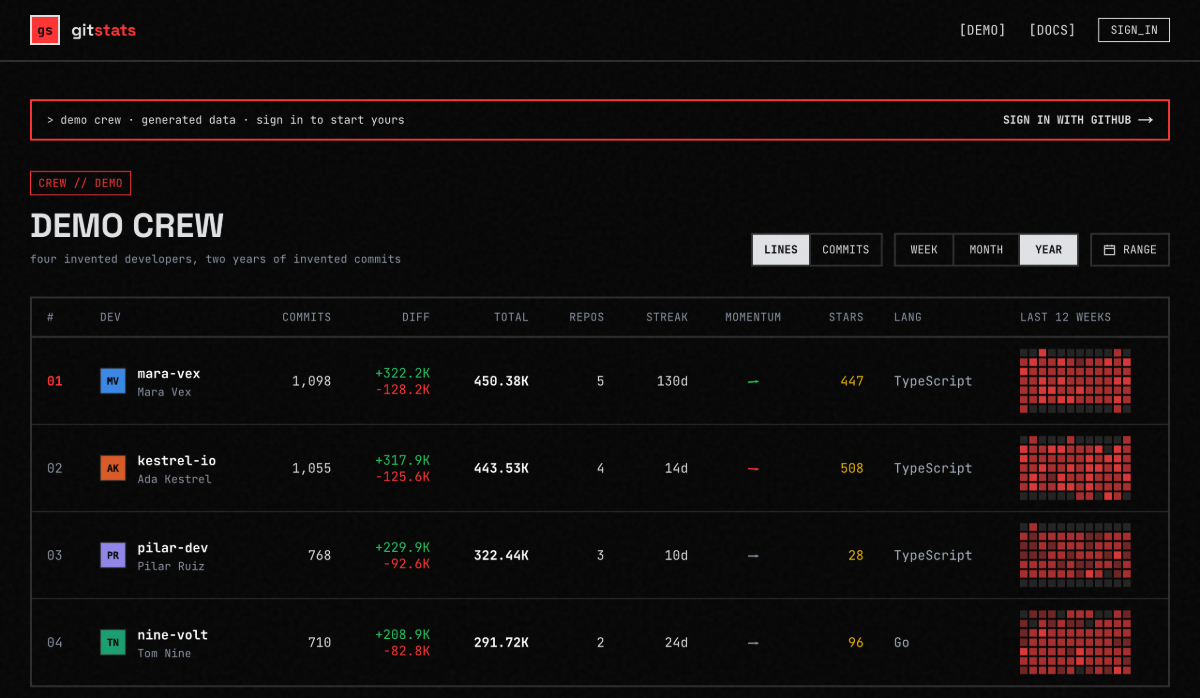
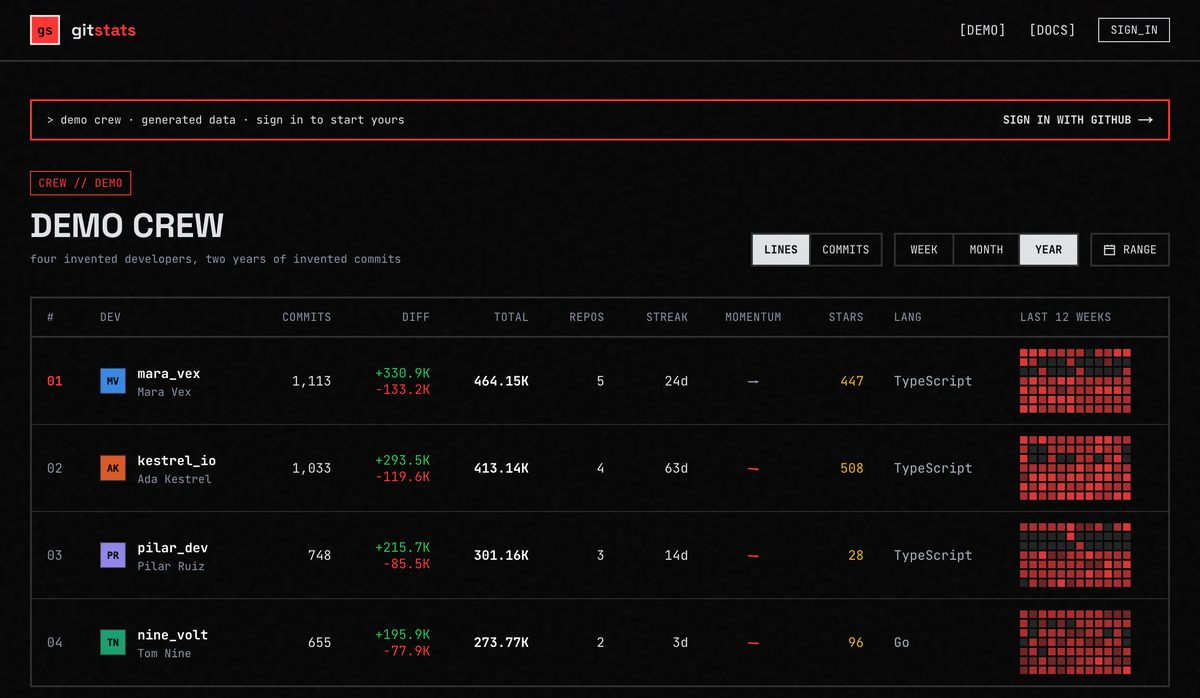
Copy: no em dashes in UI text; landing hero and share card show the current demo logins

diff --git a/app/docs/page.tsx b/app/docs/page.tsx
@@ -36,7 +36,7 @@ const SENT = [
   ["a language guess", "From the extensions of files you changed, lockfiles ignored."],
   ["weekly numbers", "For each Sunday-to-Saturday week: commits, lines added, lines deleted. Your commits only, on the default branch, merge commits excluded."],
   ["commits and lines per day", "For each date: how many commits you made and how many lines you added and deleted, so private repos show on your calendar and in the daily charts."],
-  ["pending work", "The same numbers again for commits that only exist on a branch the default branch has not taken in yet. Counted from your pushed branches only — a remote branch whose last commit is under 30 days old — so stale local branches and squash-merged worktrees do not pile up. Shown separately under the numbers on your page — to you and to anyone allowed to see that repo's numbers — and never counted on any board."],
+  ["pending work", "The same numbers again for commits that only exist on a branch the default branch has not taken in yet. Counted from your pushed branches only (a remote branch whose last commit is under 30 days old), so stale local branches and squash-merged worktrees do not pile up. Shown separately under the numbers on your page, to you and to anyone allowed to see that repo's numbers, and never counted on any board."],
   ["repo name", "Only if you ran `names on`. Off by default."],
 ];
 
@@ -152,15 +152,15 @@ export default async function Docs() {
           <dl className="space-y-6 font-mono text-xs leading-relaxed">
             <div><dt className="text-silver mb-1">Can I see the numbers without signing up?</dt><dd className="text-dim">Yes. `npx @yaroslavhaidash/gitstats-cli@latest stats` scans this computer, prints the per-repo table and the year&apos;s totals, and exits. It pairs with nothing, uploads nothing, writes no config and makes no network call \u2014 it only reads your git history. If you like what you see, run `link`.</dd></div>
             <div><dt className="text-silver mb-1">Is my work repo safe?</dt><dd className="text-dim">Yes. Only weekly counts of your own commits leave the machine, under a keyed hash instead of the repo name. No content, names, paths, or branch names. Nothing touches your employer&apos;s GitHub org.</dd></div>
-            <div><dt className="text-silver mb-1">Which commits count?</dt><dd className="text-dim">Commits on the default branch (origin/main or whatever origin/HEAD points to) authored by one of your emails, last 365 days, merge commits excluded. Squash-merged PRs count once. Work sitting on an unmerged branch is counted separately as &ldquo;pending&rdquo; by a linked computer: it shows as a faint line under the numbers on your page and as hatched caps on your lines-per-week chart — visible to whoever may see those repos&rsquo; numbers, which is your crewmates when you share private repos with them — and it never counts toward a board ranking. Only branches you have pushed count, and only while their last commit is under 30 days old; branches that live on your laptop alone are ignored. On the board, WEEK means this calendar week — Monday 00:00 UTC up to today, not the last seven days — MONTH means the 1st of this month up to today, and YEAR is the last 365 days.</dd></div>
+            <div><dt className="text-silver mb-1">Which commits count?</dt><dd className="text-dim">Commits on the default branch (origin/main or whatever origin/HEAD points to) authored by one of your emails, last 365 days, merge commits excluded. Squash-merged PRs count once. Work sitting on an unmerged branch is counted separately as &ldquo;pending&rdquo; by a linked computer: it shows as a faint line under the numbers on your page and as hatched caps on your lines-per-week chart, visible to whoever may see those repos&rsquo; numbers, which is your crewmates when you share private repos with them, and it never counts toward a board ranking. Only branches you have pushed count, and only while their last commit is under 30 days old; branches that live on your laptop alone are ignored. On the board, WEEK means this calendar week (Monday 00:00 UTC up to today, not the last seven days), MONTH means the 1st of this month up to today, and YEAR is the last 365 days.</dd></div>
             <div><dt className="text-silver mb-1">Some of my commits are missing.</dt><dd className="text-dim">Usually the email. Run `status` to see which emails are matched, then `emails add you@work.com`. Or the repo is outside your home folder: `roots add /path`.</dd></div>
             <div><dt className="text-silver mb-1">Why are the line counts huge?</dt><dd className="text-dim">Lockfiles, generated code and vendored files count as lines, same as on GitHub. The language guess ignores lockfiles, the line totals do not.</dd></div>
             <div><dt className="text-silver mb-1">I have several worktrees or clones of one repo.</dt><dd className="text-dim">Counted once. The primary clone wins; they all read the same origin/HEAD.</dd></div>
             <div><dt className="text-silver mb-1">Two laptops?</dt><dd className="text-dim">Run `link` on both. The same repo from both machines is one entry, whichever synced last wins, and they agree because both read origin/HEAD.</dd></div>
             <div><dt className="text-silver mb-1">How do I stop it?</dt><dd className="text-dim">`pause` keeps the link but stops the background runs. `unlink` revokes the computer, removes the schedule and the local config. You can also hit REVOKE on your settings page; the machine&apos;s next sync then fails harmlessly.</dd></div>
-            <div><dt className="text-silver mb-1">How does it update?</dt><dd className="text-dim">On its own, daily. Every sync checks the npm registry at most once a day and, when there is a newer version, installs it and finishes the sync under it — your config and the schedule are untouched. If the check fails you keep the version you have and the reason lands in ~/.gitstats/sync.log. `gitstats update` forces it now, `gitstats sync --no-update` skips the check.</dd></div>
+            <div><dt className="text-silver mb-1">How does it update?</dt><dd className="text-dim">On its own, daily. Every sync checks the npm registry at most once a day and, when there is a newer version, installs it and finishes the sync under it. Your config and the schedule are untouched. If the check fails you keep the version you have and the reason lands in ~/.gitstats/sync.log. `gitstats update` forces it now, `gitstats sync --no-update` skips the check.</dd></div>
             <div><dt className="text-silver mb-1">Who sees what?</dt><dd className="text-dim">Your settings page has a two-column matrix: crewmates on one side, everyone else signed in on the other. Per column you pick whether they can open your page, whether private repos count in the numbers they see, and whether repo names are shown, public-only, or hidden. New accounts start open on the numbers and closed on the names: your page is open to everyone signed in, private repos count in both columns, crewmates see public repo names and everyone else sees none. On your own page each repo also has a [hide name] switch that beats the matrix, for the one client repo you would rather not name.</dd></div>
-            <div><dt className="text-silver mb-1">Can I get my data out, or delete it?</dt><dd className="text-dim">Both, on your settings page under Data. EXPORT downloads every row we hold about you as JSON — profile, crews, linked computers, weekly and daily numbers. DELETE ACCOUNT asks you to type your login, then removes all of it from the site and signs you out; a crew you started passes to whoever joined first, and an empty one is deleted. One copy is kept for 30 days, readable only by the site owner, so a delete pressed by mistake can be undone; after that the nightly job drops it. Run `unlink` on each computer to clear the local config as well.</dd></div>
+            <div><dt className="text-silver mb-1">Can I get my data out, or delete it?</dt><dd className="text-dim">Both, on your settings page under Data. EXPORT downloads every row we hold about you as JSON: profile, crews, linked computers, weekly and daily numbers. DELETE ACCOUNT asks you to type your login, then removes all of it from the site and signs you out; a crew you started passes to whoever joined first, and an empty one is deleted. One copy is kept for 30 days, readable only by the site owner, so a delete pressed by mistake can be undone; after that the nightly job drops it. Run `unlink` on each computer to clear the local config as well.</dd></div>
             <div><dt className="text-silver mb-1">Where does it keep things?</dt><dd className="text-dim">~/.gitstats/config.json (your link token, mode 600), ~/.gitstats/cli (the installed copy), ~/.gitstats/sync.log (background runs), plus one launchd plist / scheduled task / systemd timer, named after the config directory (com.gitstats.sync.&lt;hash&gt; on macOS) so a second install under another HOME cannot replace or remove this machine&apos;s job.</dd></div>
           </dl>
         </section>

diff --git a/app/privacy/page.tsx b/app/privacy/page.tsx
@@ -83,7 +83,7 @@ export default async function Privacy() {
             Signing in asks GitHub for <span className="text-silver">read:user</span> and{" "}
             <span className="text-silver">user:email</span>. The <span className="text-silver">repo</span> scope is never
             requested, so nothing here can read or write your code on GitHub. The access token GitHub hands back at
-            sign-in is read once to learn who you are and then dropped — it is never written to the database.
+            sign-in is read once to learn who you are and then dropped. It is never written to the database.
           </p>
         </section>
 
@@ -98,7 +98,7 @@ export default async function Privacy() {
           <ul className="font-mono text-xs text-dim leading-relaxed list-disc pl-5 space-y-2 mb-4">
             <li>whether they can open your page at all,</li>
             <li>whether private repos count in the numbers they see, or only public ones,</li>
-            <li>whether repo names are shown, public-only, or hidden — plus a per-repo switch on your own page that hides one name from everybody.</li>
+            <li>whether repo names are shown, public-only, or hidden, plus a per-repo switch on your own page that hides one name from everybody.</li>
           </ul>
           <p className="font-mono text-xs text-dim leading-relaxed mb-4">
             A new account starts open on the numbers and closed on the names: your page is open to everyone signed in,
@@ -109,7 +109,7 @@ export default async function Privacy() {
           <p className="font-mono text-xs text-dim leading-relaxed">
             <span className="text-silver">Anyone with the link.</span> There is one way out of that: the SHARE button on
             your own page mints a card at a long, unguessable address that opens without a sign-in. It is a third column,
-            and you write it yourself every time you press the button — you pick whether it carries the totals, the
+            and you write it yourself every time you press the button. You pick whether it carries the totals, the
             26-week grid and the names of your top three repos, and you see the card before you send it. Because you
             chose to publish it, the card shows your own numbers rather than the column a stranger would get; the only
             thing it will not do is name a repo you hid per repo on your own page. Nothing is stored for a card: the
@@ -137,7 +137,7 @@ export default async function Privacy() {
               <dd className="font-mono text-xs text-dim leading-relaxed">
                 Type your login to confirm and everything above leaves the live site right then: you are gone from
                 every board, every page and every export. One copy is held back, in a table only the site owner can
-                read, for 30 days — the undo for a delete pressed by mistake — and the nightly job drops it after
+                read, for 30 days (the undo for a delete pressed by mistake), and the nightly job drops it after
                 that. Nothing is mined from it and nothing else keeps a copy. A crew you started passes to whoever
                 joined first; if you were the last member it goes too. Run <span className="text-silver">gitstats
                 unlink</span> on each computer to clear the local config as well.
@@ -168,8 +168,8 @@ export default async function Privacy() {
             the numbers above. It shows you everything it found and asks before the first upload. It is open source at{" "}
             <a href="https://github.com/yaroslavhaidash/gitstats-cli" target="_blank" rel="noreferrer" className="text-silver underline hover:text-alert">
               github.com/yaroslavhaidash/gitstats-cli
-            </a>{" "}
-            — one file, under a thousand lines, MIT licensed, with the compiled output committed next to it. Read it, or watch its traffic
+            </a>
+            . One file, under a thousand lines, MIT licensed, with the compiled output committed next to it. Read it, or watch its traffic
             with any proxy. <Link href="/docs" className="text-silver underline hover:text-alert">The docs page</Link>{" "}
             lists every command, including the ones that stop it.
           </p>

diff --git a/app/page.tsx b/app/page.tsx
@@ -49,9 +49,9 @@ const STEPS = [
 ];
 
 const SAFE = [
-  ["no tokens", "The sign-in asks for read:user and user:email, nothing more — nothing on GitHub can read or write your code on our behalf. (If you would rather not run anything locally, settings takes an optional read-only fine-grained token instead, scoped to repos you pick. It is encrypted at rest and only the nightly job decrypts it.)"],
+  ["no tokens", "The sign-in asks for read:user and user:email, nothing more. Nothing on GitHub can read or write your code on our behalf. (If you would rather not run anything locally, settings takes an optional read-only fine-grained token instead, scoped to repos you pick. It is encrypted at rest and only the nightly job decrypts it.)"],
   ["numbers only", "The CLI sends a keyed hash of each remote URL, a guessed language, per-week and per-day commits / lines added / lines deleted for your commits. Repo names only if you turn them on. No paths, no diffs, no content."],
-  ["your machine, your rules", "It runs as you, reads git history the way git log does, and re-runs daily in the background — a launchd job, a scheduled task or a systemd timer, depending on your OS. It also updates itself from npm once a day; sync --no-update skips that. gitstats pause stops the schedule, gitstats unlink removes it entirely. Revoke a computer on the settings page."],
+  ["your machine, your rules", "It runs as you, reads git history the way git log does, and re-runs daily in the background: a launchd job, a scheduled task or a systemd timer, depending on your OS. It also updates itself from npm once a day; sync --no-update skips that. gitstats pause stops the schedule, gitstats unlink removes it entirely. Revoke a computer on the settings page."],
   ["you decide what is shown", "Per profile: who can open it, whether private repos count in what others see, and whether repo names are shown or anonymised."],
   ["auditable", "The CLI and the server are both open source, MIT, so you can check what is sent and what is stored. The CLI is one file, under a thousand lines of TypeScript, with the compiled output committed next to it. Read it, or point a proxy at it. It shows you what it found and asks before the first upload."],
 ];
@@ -86,7 +86,7 @@ const FAQ = [
 
 const VERSUS: [string, string, string][] = [
   ["what it counts", "Commits, issues, pull requests and reviews, as squares with no numbers on them.", "Commits and lines added and deleted, as numbers you can add up and sort by."],
-  ["private repos", "A green square, and only once you turn on private contributions. Never a number.", "Counted on your own machine and sent as numbers — no GitHub token, work repos included."],
+  ["private repos", "A green square, and only once you turn on private contributions. Never a number.", "Counted on your own machine and sent as numbers. No GitHub token, work repos included."],
   ["lines of code per day", "Not shown anywhere. GitHub publishes lines per week, per repo, to the repo's own graphs.", "Per day for every repo a linked computer counted, and per week for the rest, marked as such."],
   ["comparing people", "One profile at a time, in separate tabs.", "A leaderboard: your crew side by side over a week, a month, a year or any range you pick."],
   ["what it is for", "Showing your own year on your own profile.", "Settling who actually shipped this week, among friends."],

diff --git a/app/dashboard/setup/page.tsx b/app/dashboard/setup/page.tsx
@@ -10,7 +10,7 @@ import { crewByCode } from "@/lib/crews";
 import { fmtDateTime } from "@/lib/format";
 
 const STEPS = [
-  { tag: "01_SIGNED_IN", title: "GitHub sign-in", body: "Done. That only tells us who you are — your calendar and your public repos are already here. The lines for them arrive tonight, in the 03:00 UTC snapshot. Link your computer for them now." },
+  { tag: "01_SIGNED_IN", title: "GitHub sign-in", body: "Done. That only tells us who you are. Your calendar and your public repos are already here. The lines for them arrive tonight, in the 03:00 UTC snapshot. Link your computer for them now." },
   { tag: "02_LINK", title: "Run one command on your computer", body: "It opens a page where you confirm the link, scans your home folder for git repos, counts your commits for the last year, shows you exactly what it found, and uploads only after you say yes. Then it schedules itself to re-run daily. Node.js is the only requirement." },
   { tag: "03_DONE", title: "That’s it", body: "Private and work repos show up on your board as soon as the first sync finishes. Repeat on any other computer you commit from." },
 ];
@@ -66,7 +66,7 @@ export default async function Setup({ searchParams }: { searchParams: Promise<{ 
       <div className="border-2 border-dark p-6 mb-10">
         <h2 className="font-sans font-bold text-lg mb-3">Linked computers</h2>
         {machines.length === 0 ? (
-          <p className="font-mono text-xs text-faint">&gt; none yet — this page updates once the command finishes</p>
+          <p className="font-mono text-xs text-faint">&gt; none yet, this page updates once the command finishes</p>
         ) : (
           <ul className="font-mono text-xs divide-y divide-dark">
             {machines.map((m) => (

diff --git a/app/global-error.tsx b/app/global-error.tsx
@@ -12,7 +12,7 @@ export default function GlobalError({ error, reset }: { error: Error & { digest?
         <main style={{ minHeight: "100vh", display: "grid", placeItems: "center", padding: "0 16px", textAlign: "center" }}>
           <div>
             <h1 style={{ fontSize: 28, margin: "0 0 12px" }}>That didn&apos;t load.</h1>
-            <p style={{ fontSize: 14, color: "#aab2bf", margin: "0 0 24px" }}>Try again — it normally works the second time.</p>
+            <p style={{ fontSize: 14, color: "#aab2bf", margin: "0 0 24px" }}>Try again, it normally works the second time.</p>
             <button
               type="button"
               onClick={reset}

diff --git a/app/error.tsx b/app/error.tsx
@@ -23,7 +23,7 @@ export default function ErrorPage({ error, reset }: { error: Error & { digest?: 
         <div className="tag mb-4">SOMETHING BROKE</div>
         <h1 className="font-sans font-bold text-4xl mb-4">That didn&apos;t load.</h1>
         <p className="font-mono text-sm text-dim mb-8">
-          Usually a blip between here and the database. Try again — it normally works the second time.
+          Usually a blip between here and the database. Try again, it normally works the second time.
         </p>
         <div className="flex flex-wrap items-center justify-center gap-3">
           <button type="button" onClick={reset} className="btn-brutal">

diff --git a/components/UnsavedGuard.tsx b/components/UnsavedGuard.tsx
@@ -134,7 +134,7 @@ export function UnsavedModal({ onSave, onDiscard }: { onSave: () => void; onDisc
       <div className="panel border-silver w-full max-w-md p-6">
         <h2 className="font-sans font-bold text-xl mb-2">You have unsaved changes</h2>
         <p className="font-mono text-xs text-dim mb-6 leading-relaxed">
-          Save them before you go, or leave them behind — this page will not keep them.
+          Save them before you go, or leave them behind. This page will not keep them.
         </p>
         <div className="flex flex-wrap gap-3">
           <button type="button" onClick={onSave} className="btn-brutal">

diff --git a/lib/site.ts b/lib/site.ts
@@ -6,7 +6,7 @@ export const SITE_URL = "https://gitstats.org";
 export const SITE_NAME = "gitstats";
 
 export const SITE_DESCRIPTION =
-  "Git stats for friends: a GitHub commit leaderboard for your crew. Commits, lines of code per day, streaks and stars — private repo commits counted without a token.";
+  "Git stats for friends: a GitHub commit leaderboard for your crew. Commits, lines of code per day, streaks and stars. Private repo commits counted without a token.";
 
 /**
  * A page's `openGraph` replaces the layout's rather than merging into it, so every page that sets

diff --git a/lib/og.tsx b/lib/og.tsx
@@ -8,7 +8,7 @@ import { join } from "node:path";
  * same capture the landing hero uses, resampled to 1200 wide. Static for every route — a per-user
  * card would put someone's numbers in front of anyone who can guess a URL.
  */
-export const alt = "gitstats — a crew board ranking four developers by lines of code over a year";
+export const alt = "gitstats: a crew board ranking four developers by lines of code over a year";
 export const size = { width: 1200, height: 630 };
 export const contentType = "image/png";
 

diff --git a/app/admin/page.tsx b/app/admin/page.tsx
@@ -11,7 +11,7 @@ import { FUNNEL_STEPS, funnelDays } from "@/lib/funnel";
 export const dynamic = "force-dynamic";
 
 const DONE: Record<string, string> = {
-  deleted: `member deleted — restorable from the archive below for ${ARCHIVE_DAYS} days`,
+  deleted: `member deleted, restorable from the archive below for ${ARCHIVE_DAYS} days`,
   restored: "member restored",
   revoked: "machine revoked",
   snapshot: "snapshot started for that member",

diff --git a/CLAUDE.md b/CLAUDE.md
@@ -30,6 +30,7 @@ Void `#050505`, alert red `#ff3333`, silver `#e0e2e5`, dark `#1a1a1a`; JetBrains
 - **Charts draw at their real width** (`components/useChartWidth.ts`), one viewBox unit per CSS pixel, so axis text keeps its size on a phone. Axis density comes from `components/dayTicks.ts`, never hand-tuned per chart.
 - **Lines is the primary metric** (additions + deletions); commits are the alternative behind `MetricTabs`. Whatever is selected orders the board too, so a table never disagrees with the charts beneath it.
 - **Per-day numbers have two sources and neither is complete.** A linked computer counts days exactly; a repo GitHub knows about but that is not cloned anywhere only has weekly figures, which `userDailyLines` lays over that week's days and returns separately in `spread*` so charts can hatch them. Never present a placed figure as a counted one.
+- **Copy:** no em dashes in UI text, no italics for emphasis, no cream or light backgrounds.
 
 ## Docs index
 - `docs/ARCHITECTURE.md` — data flow, tables, routes, file map, invariants.
